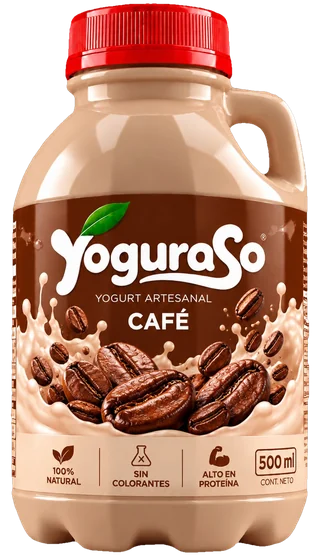
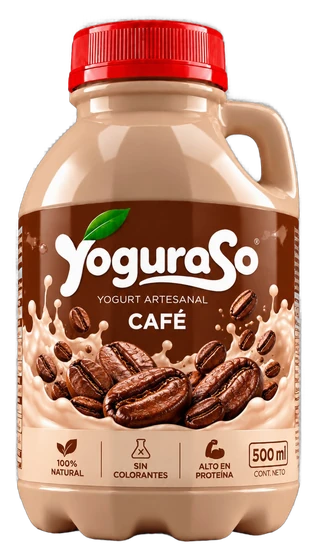
fix: stop stretching bottle images (height:auto + object-fit contain + crops)

diff --git a/frontend/css/home-v3.css b/frontend/css/home-v3.css
@@ -677,3 +677,225 @@
 }
 .fc [data-fc-qty] span { min-width: 28px; text-align: center; font-weight: 700; }
 .fc-btn-solid { width: 100%; justify-content: space-between; padding-inline: 18px; }
+
+
+/* FIX: never stretch bottle assets (HTML width/height attrs otherwise force tall height) */
+.v3-ingredientes__visual img,
+.v3-envase__stage img,
+.v3-nosotros__visual img,
+.fc-bottle,
+.v3-flavor-card img,
+.v3-mcard__art,
+.producto-card .producto-img,
+.producto-card.card-v3 .producto-img {
+  height: auto !important;
+  max-height: 100%;
+  object-fit: contain !important;
+  object-position: center bottom;
+}
+
+.v3-ingredientes__visual img,
+.v3-envase__stage img,
+.v3-nosotros__visual img {
+  width: min(52%, 280px) !important;
+  max-height: min(72vh, 520px) !important;
+  aspect-ratio: 640 / 1110;
+}
+
+.v3-ingredientes__visual,
+.v3-envase__stage,
+.v3-nosotros__visual {
+  min-height: 420px !important;
+  aspect-ratio: 4 / 5;
+  place-items: end center;
+  padding: 28px 18px 18px;
+}
+
+.v3-mcard__art {
+  width: min(52%, 210px) !important;
+  max-width: 210px !important;
+  height: auto !important;
+  max-height: 78% !important;
+  object-fit: contain !important;
+  right: -2% !important;
+  bottom: 0 !important;
+}
+
+.fc-bottle {
+  width: min(78%, 260px) !important;
+  max-height: min(58vh, 460px) !important;
+  aspect-ratio: 640 / 1110;
+}
+
+.fc-chips {
+  display: grid !important;
+  grid-template-columns: repeat(3, 1fr) !important;
+  gap: 10px !important;
+}
+.fc-chip {
+  display: grid !important;
+  place-items: center !important;
+  gap: 8px !important;
+  text-align: center !important;
+  aspect-ratio: 1 / 1 !important;
+  padding: 14px 10px !important;
+  border-radius: 18px !important;
+  background: #fff !important;
+  border: 1px solid rgba(229,29,42,0.12) !important;
+  box-shadow: var(--shadow-xs) !important;
+  font-size: 12px !important;
+  font-weight: 700 !important;
+  color: var(--brand-red-deep) !important;
+  line-height: 1.2 !important;
+}
+.fc-chip i { font-size: 18px; color: var(--brand-red); }
+
+.fc-art {
+  min-height: 460px;
+  aspect-ratio: 4 / 5.2;
+  align-content: center;
+}
+
+.producto-card.card-v3 .producto-img-container {
+  height: auto !important;
+  min-height: 0 !important;
+  aspect-ratio: 1 / 1.05 !important;
+  display: grid !important;
+  place-items: center !important;
+  padding: 18px 12px 8px !important;
+}
+.producto-card.card-v3 .producto-img {
+  width: min(72%, 168px) !important;
+  height: auto !important;
+  max-height: 240px !important;
+  aspect-ratio: 320 / 555 !important;
+  transform: none !important;
+  padding: 0 !important;
+}
+.producto-card.card-v3:hover .producto-img { transform: translateY(-4px) scale(1.03) !important; }
+
+.v3-feature, .v3-moment {
+  aspect-ratio: 1 / 1 !important;
+  border-radius: 18px !important;
+  place-content: center !important;
+}
+.v3-moments { grid-template-columns: repeat(3, 1fr) !important; gap: 10px !important; }
+.v3-moment { flex-direction: column !important; text-align: center !important; justify-content: center !important; background: #fff !important; color: var(--brand-red-deep) !important; }
+.v3-moment i { color: var(--brand-red); font-size: 18px; }
+
+/* Home sabores denser like mockup 03: 4 featured + ingredients wide */
+.v3-sabores-board {
+  display: grid;
+  grid-template-columns: 0.85fr 1.15fr 1.15fr 1.15fr 1.15fr 1.55fr;
+  gap: 14px;
+  align-items: stretch;
+}
+.v3-sabores-intro {
+  padding: 22px 18px;
+  border-radius: 28px;
+  background: #fff;
+  box-shadow: var(--shadow-card);
+  display: flex; flex-direction: column; gap: 14px;
+}
+.v3-sabores-intro .v3-title { font-size: 1.35rem; margin: 0; }
+.v3-sabores-intro .v3-lead { font-size: 0.88rem; margin: 0; }
+.v3-sabores-intro .v3-filters { flex-direction: column; align-items: stretch; }
+.v3-sabores-intro .v3-filter { width: 100%; justify-content: center; }
+.v3-flavor-grid--featured {
+  display: contents;
+}
+.v3-flavor-grid--featured > li { list-style: none; }
+.v3-flavor-grid--featured .v3-flavor-card {
+  height: 100%;
+  min-height: 320px;
+  justify-content: space-between;
+  padding: 18px 12px 16px;
+}
+.v3-flavor-grid--featured .v3-flavor-card img {
+  width: min(78%, 150px);
+  max-height: 210px;
+  aspect-ratio: 320/555;
+  height: auto;
+  object-fit: contain;
+}
+.v3-ingredientes-card {
+  border-radius: 28px;
+  background: linear-gradient(160deg, #FFF8F4, #FFE8EC);
+  box-shadow: var(--shadow-card);
+  padding: 22px 18px;
+  display: grid;
+  grid-template-rows: auto 1fr auto;
+  gap: 12px;
+  position: relative;
+  overflow: hidden;
+  min-height: 320px;
+}
+.v3-ingredientes-card .v3-title { font-size: 1.2rem; margin: 0; }
+.v3-ingredientes-card .v3-feature-row { margin: 0; }
+.v3-ingredientes-card img {
+  position: absolute; right: -8%; bottom: -4%;
+  width: min(46%, 150px); height: auto; max-height: 70%;
+  object-fit: contain; aspect-ratio: 640/1110;
+  filter: drop-shadow(0 12px 18px rgba(180,30,40,0.2));
+  pointer-events: none;
+}
+@media (max-width: 1100px) {
+  .v3-sabores-board { grid-template-columns: 1fr 1fr; }
+  .v3-sabores-intro, .v3-ingredientes-card { grid-column: 1 / -1; }
+  .v3-flavor-grid--featured { display: grid; grid-template-columns: repeat(4,1fr); gap: 14px; grid-column: 1 / -1; }
+}
+@media (max-width: 760px) {
+  .v3-flavor-grid--featured { grid-template-columns: repeat(2,1fr); }
+  .v3-moments { grid-template-columns: 1fr !important; }
+  .fc-chips { grid-template-columns: repeat(3, 1fr) !important; }
+}
+
+
+
+/* FIX product card bottle size to match mockup density */
+.producto-card.card-v3 .producto-img-container,
+.productos-page-v3 .producto-card.card-v3 .producto-img-container {
+  aspect-ratio: 1 / 1.12 !important;
+  padding: 22px 16px 10px !important;
+}
+.producto-card.card-v3 .producto-img,
+.productos-page-v3 .producto-card.card-v3 .producto-img,
+.productos-grid:not(.productos-grid-horizontal) .producto-card .producto-img {
+  width: min(86%, 210px) !important;
+  max-width: 210px !important;
+  max-height: 280px !important;
+  height: auto !important;
+  object-fit: contain !important;
+}
+.v3-catalog .producto-card.card-v3 .producto-img {
+  width: min(78%, 170px) !important;
+  max-height: 220px !important;
+}
+
+
+.producto-card.card-v3 .wish-btn i{color:var(--brand-red);font-size:14px;}
+.producto-card.card-v3 .wish-btn .far.fa-heart:before{content:"\f004";}
+
+
+/* FIX larger bottles in catalog cards */
+.productos-page-v3 .productos-grid:not(.productos-grid-horizontal){
+  grid-template-columns: repeat(auto-fill, minmax(min(100%, 260px), 1fr)) !important;
+  gap: 22px !important;
+  max-width: 1180px !important;
+}
+.productos-page-v3 .producto-card.card-v3 .producto-img-container{
+  aspect-ratio: 1 / 1.18 !important;
+  padding: 28px 10px 12px !important;
+}
+.productos-page-v3 .producto-card.card-v3 .producto-img{
+  width: min(92%, 230px) !important;
+  max-width: 230px !important;
+  max-height: 310px !important;
+}
+.producto-card.card-v3 .wish-btn{
+  background:#fff !important;
+  box-shadow:0 2px 8px rgba(0,0,0,.08);
+}
+.producto-card.card-v3 .wish-btn i,
+.producto-card.card-v3 .wish-btn svg{color:#E51D2A!important;opacity:1!important;font-size:15px!important;}
+

diff --git a/frontend/css/cards-productos.css b/frontend/css/cards-productos.css
@@ -86,11 +86,11 @@
 }
 
 .productos-grid:not(.productos-grid-horizontal) .producto-card .producto-img {
-    transform: scale(1.18);
+    transform: none;
 }
 
 .productos-grid:not(.productos-grid-horizontal) .producto-card:hover .producto-img {
-    transform: scale(1.24);
+    transform: translateY(-3px) scale(1.02);
 }
 
 @media screen and (max-width: 640px) {
@@ -111,10 +111,51 @@
     }
 
     .productos-grid:not(.productos-grid-horizontal) .producto-card .producto-img {
-        transform: scale(1.2);
+        transform: none;
     }
 
     .productos-grid:not(.productos-grid-horizontal) .producto-card:hover .producto-img {
-        transform: scale(1.25);
+        transform: translateY(-3px) scale(1.02);
     }
 }
+
+/* FIX bottle contain */
+.producto-card .producto-img {
+  width: auto !important;
+  max-width: 78%;
+  height: auto !important;
+  max-height: 92%;
+  aspect-ratio: 320 / 555;
+  object-fit: contain !important;
+  padding: 0 !important;
+}
+.productos-grid:not(.productos-grid-horizontal) .producto-card .producto-img-container,
+.productos-grid:not(.productos-grid-horizontal) .producto-card .producto-img-wrap {
+  height: auto !important;
+  min-height: 0 !important;
+  aspect-ratio: 1 / 1.05;
+  display: grid;
+  place-items: center;
+}
+
+
+/* FIX product card bottle size to match mockup density */
+.producto-card.card-v3 .producto-img-container,
+.productos-page-v3 .producto-card.card-v3 .producto-img-container {
+  aspect-ratio: 1 / 1.12 !important;
+  padding: 22px 16px 10px !important;
+}
+.producto-card.card-v3 .producto-img,
+.productos-page-v3 .producto-card.card-v3 .producto-img,
+.productos-grid:not(.productos-grid-horizontal) .producto-card .producto-img {
+  width: min(86%, 210px) !important;
+  max-width: 210px !important;
+  max-height: 280px !important;
+  height: auto !important;
+  object-fit: contain !important;
+}
+.v3-catalog .producto-card.card-v3 .producto-img {
+  width: min(78%, 170px) !important;
+  max-height: 220px !important;
+}
+

diff --git a/frontend/css/brand-pages.css b/frontend/css/brand-pages.css
@@ -486,3 +486,35 @@ html.bp-pages .bp-reveal.is-in.bp-done { transition-delay: 0s; }
 .admin-shell, .admin-wrap, .admin-main {
   background: var(--cream, #FFF8F4) !important;
 }
+
+/* FIX bottle stage aspect */
+.productos-page-v3 .producto-card.card-v3 .producto-img-container,
+.productos-page-v3 .producto-card.card-v3 .producto-img-wrap{
+  height:auto!important;min-height:0!important;aspect-ratio:1/1.05;display:grid;place-items:center;
+}
+.productos-page-v3 .producto-card.card-v3 .producto-img{
+  width:min(72%,168px)!important;height:auto!important;max-height:240px!important;
+  object-fit:contain!important;padding:0!important;transform:none!important;
+}
+
+
+/* FIX product card bottle size to match mockup density */
+.producto-card.card-v3 .producto-img-container,
+.productos-page-v3 .producto-card.card-v3 .producto-img-container {
+  aspect-ratio: 1 / 1.12 !important;
+  padding: 22px 16px 10px !important;
+}
+.producto-card.card-v3 .producto-img,
+.productos-page-v3 .producto-card.card-v3 .producto-img,
+.productos-grid:not(.productos-grid-horizontal) .producto-card .producto-img {
+  width: min(86%, 210px) !important;
+  max-width: 210px !important;
+  max-height: 280px !important;
+  height: auto !important;
+  object-fit: contain !important;
+}
+.v3-catalog .producto-card.card-v3 .producto-img {
+  width: min(78%, 170px) !important;
+  max-height: 220px !important;
+}
+

diff --git a/frontend/css/shop-ui.css b/frontend/css/shop-ui.css
@@ -1250,3 +1250,6 @@ body.cart-body {
 .toast-error .toast-message strong { color: #9A3B3B !important; }
 .toast-warning .toast-message strong { color: #92400E !important; }
 .toast-info .toast-message strong { color: #1E3A8A !important; }
+
+/* card-v3 override height */
+.producto-card.card-v3{height:auto!important;min-height:0!important;}
